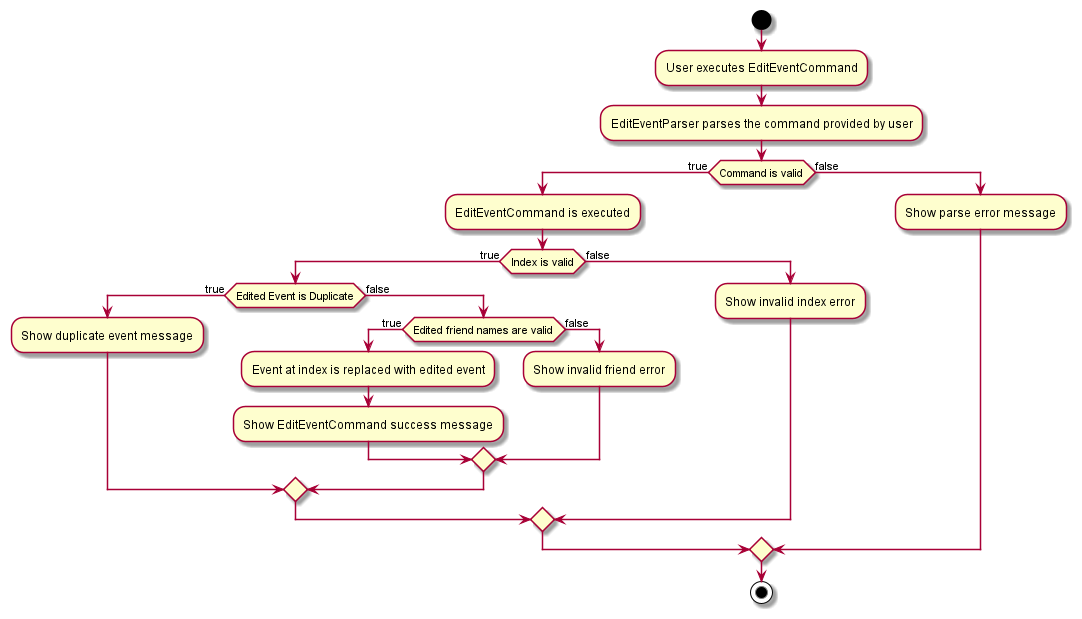
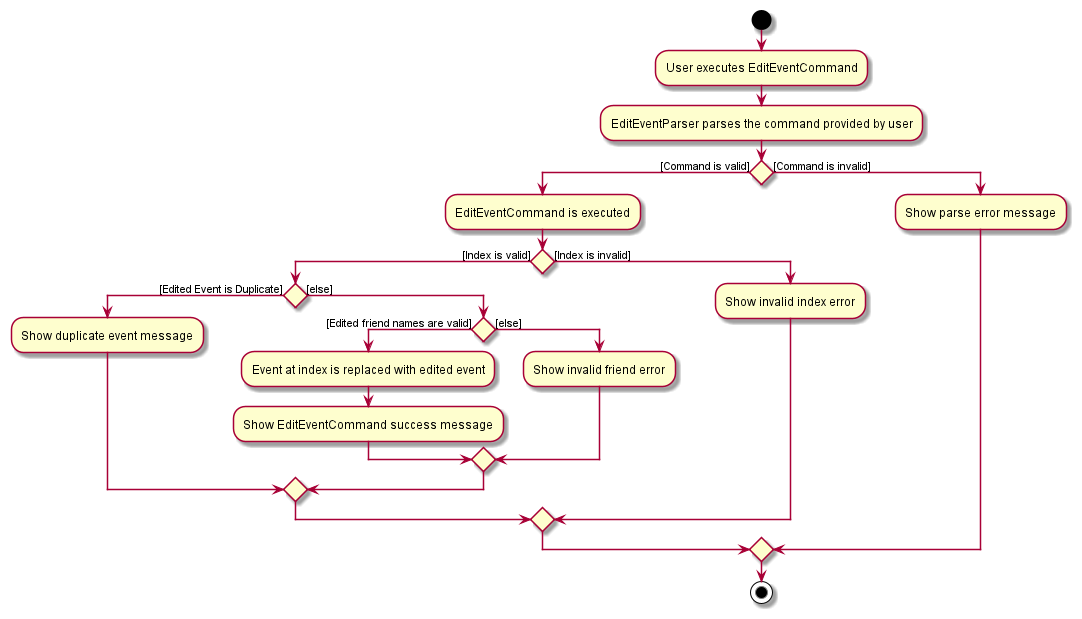
Fix EdtiEvent activity diagram Add Showevents sequence diagram

diff --git a/docs/DeveloperGuide.md b/docs/DeveloperGuide.md
@@ -194,6 +194,10 @@ The following is a detailed explanation of the operations which take place when 
 3. The GUI contains a pointer to the `FilteredList` present in the `ModelManager`, thus it is able to retrieve all the events present in the addressbook and represent them as a `EventCard` class which is a JavaFX UI feature which visually depicts the event's name, date and time, description and the names of any friends associated with the event.
 4. The `MainWindow` class receives the `CommandResult` after `ShowEventsCommand::execute` is done executing, a boolean `event` within `CommandResult` decides whether `MainWindow::changeInterface` is called which changes the tab from `Friends` tab to `Events` or vice versa.
 
+The following sequence diagram summarizes what happens when a user executes the `ShowEventsCommand`
+
+![ShowEventSequenceDiagram.png](C:\Users\aryan\Desktop\Sem 6\CS2103\tP\src\main\resources\images\ShowEventsSequenceDiagram.png)
+
 #### Design Considerations
 
 - Current Implementation
